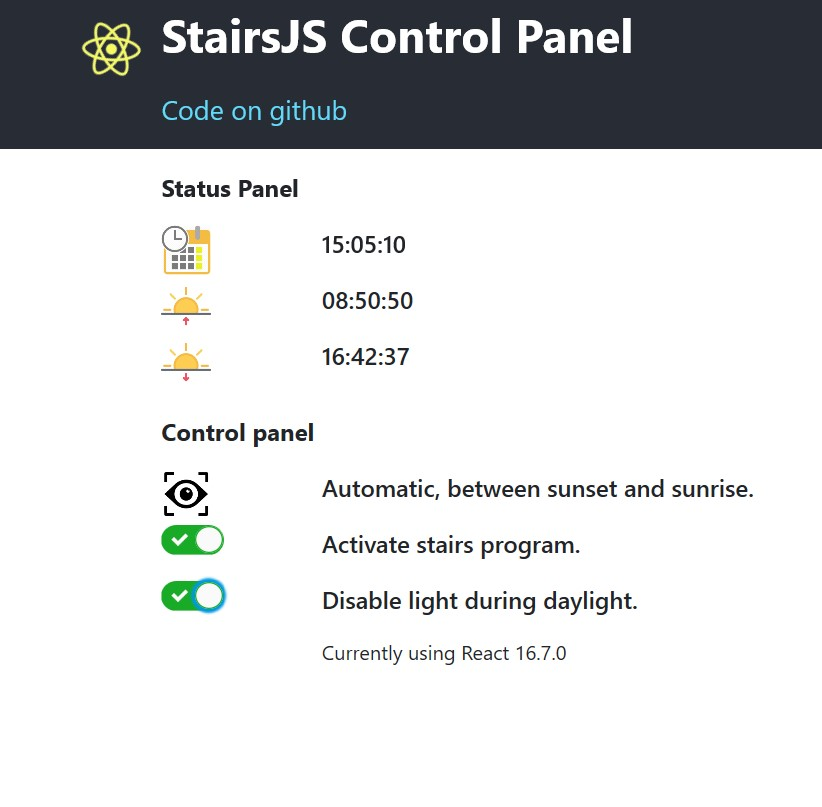
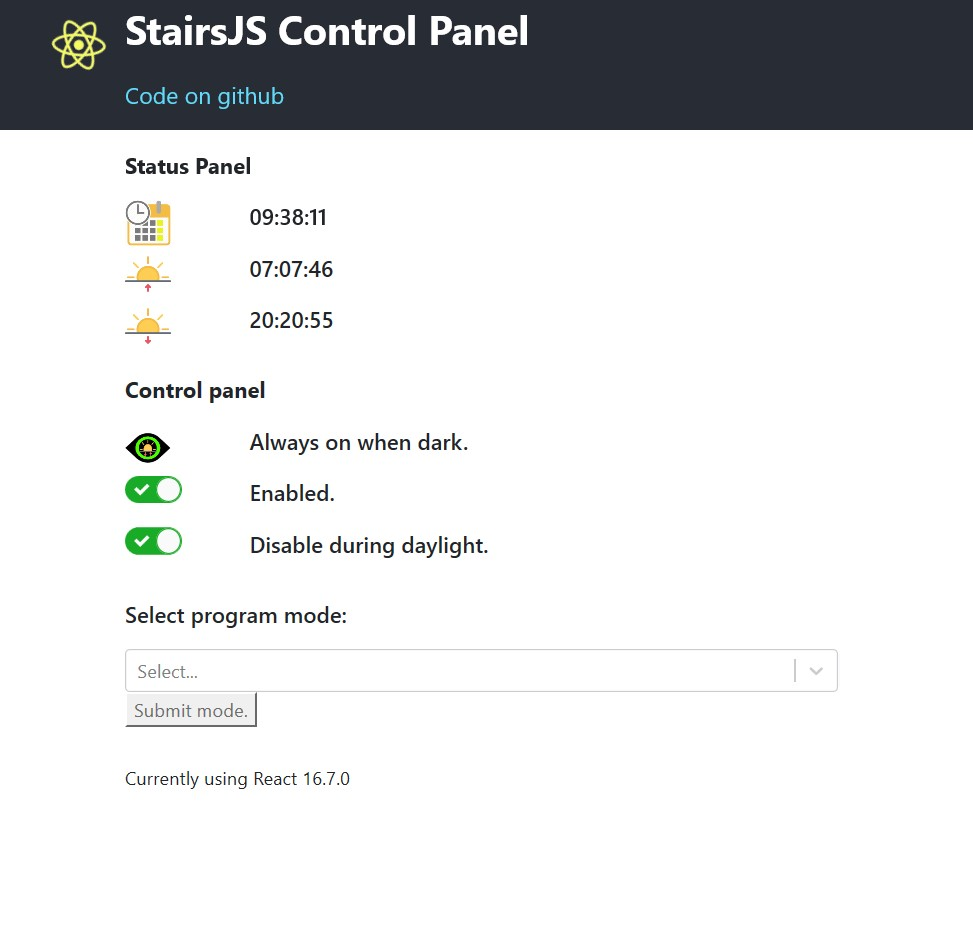
readme and screenshot updated

diff --git a/README.md b/README.md
@@ -2,7 +2,20 @@
 It is a front-end (GUI client) for the automatic led-light server program of my stairs, which can be found here: https://github.com/Vinz68/stairsJs.
 The server program (stairsJs repository) controls the led-strips on the stairs automatically
 based on the current sunset and sunrise times and using 2 passive infra red (PIR) sensors to detect the people who want to go up or down.
+
 This client program (stairsJs-control-panel) gives the status and control of this stairs program.
+Status: Current time, Sunrise time, Sunset time and the current state/mode and 2 settings.
+Control: There program has different modes which can be set:
+| Mode                             | Description                                      | 
+|:--------------------------------:| ------------------------------------------------:|
+| 'Always off.' | Stairs Lights always turned off |
+| 'Automatic, by PIR.' | When PIR detects a person, turn on stair lights. |          
+| 'Automatic, by PIR when dark.' | When Dark and PIR detects a person, turn on lights.|
+| 'Always on.' | Stairs Lights always turned on |
+| 'Always on when dark.' | When Dark, Stairs Lights always turned on|
+|  'Test1 activated.' | Test mode, for future usage. |
+|:--------------------------------:| ------------------------------------------------:|
+ 
 
 ## Screenshot
 ![stairsjs-control-panel](src/media/screenshot.jpg) 
@@ -37,15 +50,6 @@ Your app is ready to be deployed!
 
 See the section about [deployment](https://facebook.github.io/create-react-app/docs/deployment) for more information.
 
-### `npm run eject`
-
-**Note: this is a one-way operation. Once you `eject`, you can’t go back!**
-
-If you aren’t satisfied with the build tool and configuration choices, you can `eject` at any time. This command will remove the single build dependency from your project.
-
-Instead, it will copy all the configuration files and the transitive dependencies (Webpack, Babel, ESLint, etc) right into your project so you have full control over them. All of the commands except `eject` will still work, but they will point to the copied scripts so you can tweak them. At this point you’re on your own.
-
-You don’t have to ever use `eject`. The curated feature set is suitable for small and middle deployments, and you shouldn’t feel obligated to use this feature. However we understand that this tool wouldn’t be useful if you couldn’t customize it when you are ready for it.
 
 ## Learn More
 
